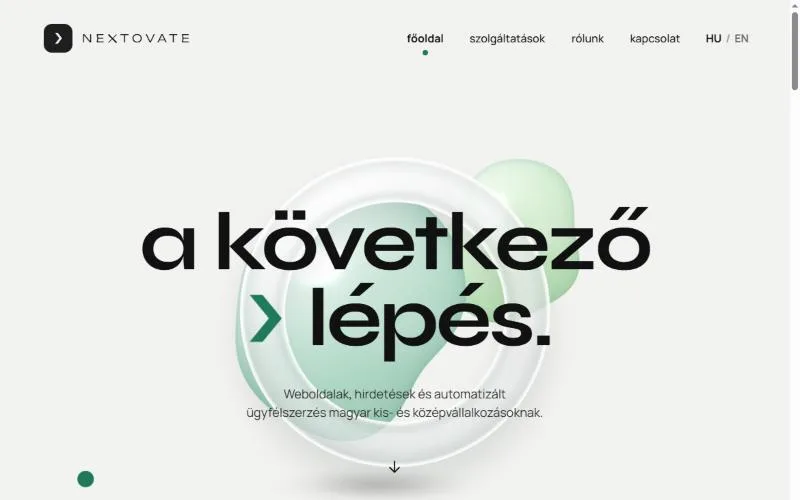
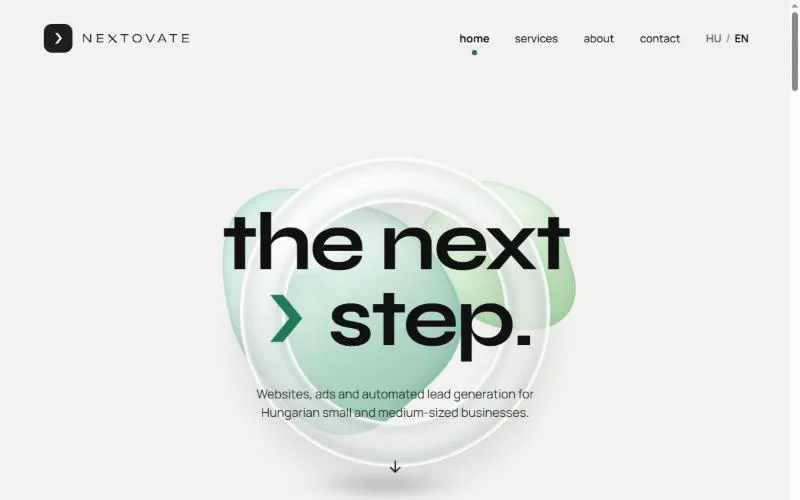
Show the English version of Nextovate
Swap the card image for a screenshot of the English hero and point
the link at /en/, so an English-speaking visitor lands on a page
they can read.

Links straight to www.nextovate.hu/en/, the canonical URL from the
site's own hreflang, which avoids the redirect hop from the apex.

diff --git a/index.html b/index.html
@@ -113,7 +113,7 @@
                                 <li>Vercel</li>
                             </ul>
                             <p class="project-links">
-                                <a href="https://nextovate.hu">Visit the site<span class="visually-hidden">: Nextovate</span></a>
+                                <a href="https://www.nextovate.hu/en/">Visit the site<span class="visually-hidden">: Nextovate</span></a>
                             </p>
                         </div>
                     </article>
